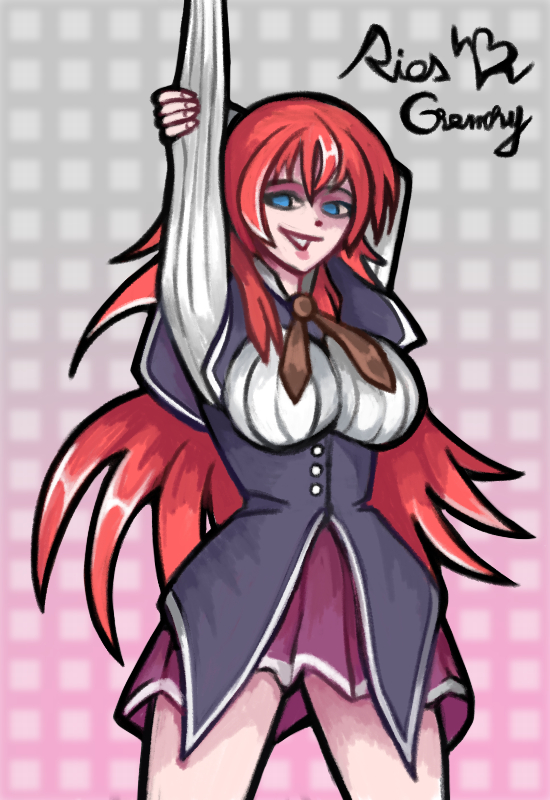
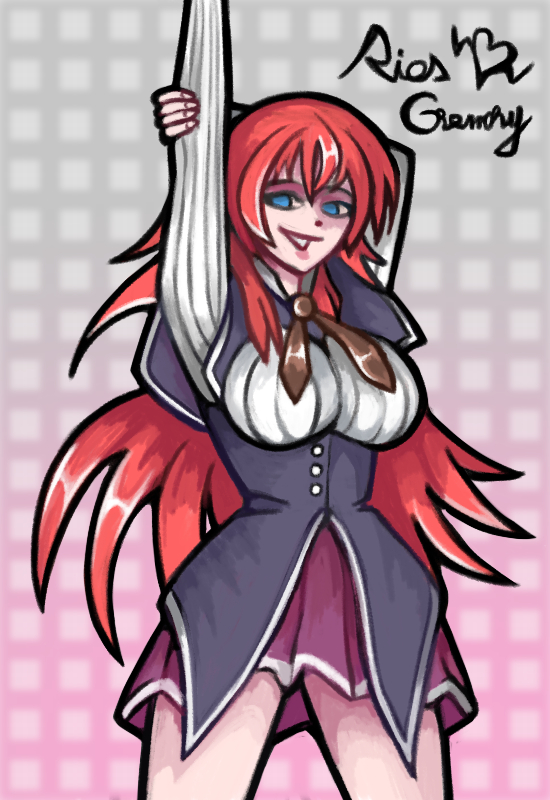
u

diff --git a/index.html b/index.html
@@ -26,8 +26,8 @@
                     </div>
                     <BR>
                     <div class="two_artwork_container" style="margin-left: auto; margin-right: auto; display: flex; flex-direction: row; width: 50rem; height: 30rem; gap: 1rem; justify-content: center;">
-                        <img src="resources/artworks/cute_pitou.jpg" class="artwork" style="width: auto; height: auto">
-                        <img src="resources/artworks/freaky_esdeath.jpg" class="artwork" style="width: auto; height: auto">
+                        <img src="resources/artworks/pitou_side_profile_artwork.jpg" class="artwork" style="width: auto; height: auto">
+                        <img src="resources/artworks/esdeath_artwork_with_text.jpg" class="artwork" style="width: auto; height: auto">
                     </div>
                     <BR>
                     <div class="two_artwork_container" style="margin-left: auto; margin-right: auto; display: flex; flex-direction: row; width: 50rem; height: 30rem; gap: 1rem; justify-content: center;">
